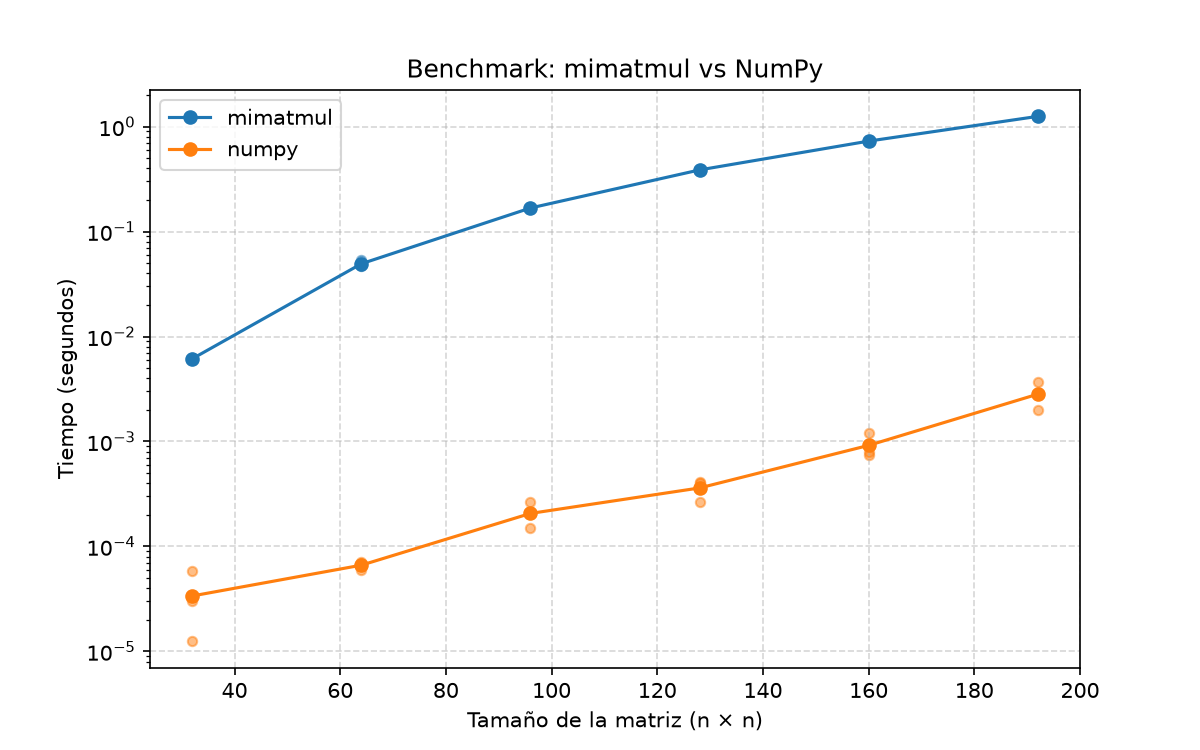
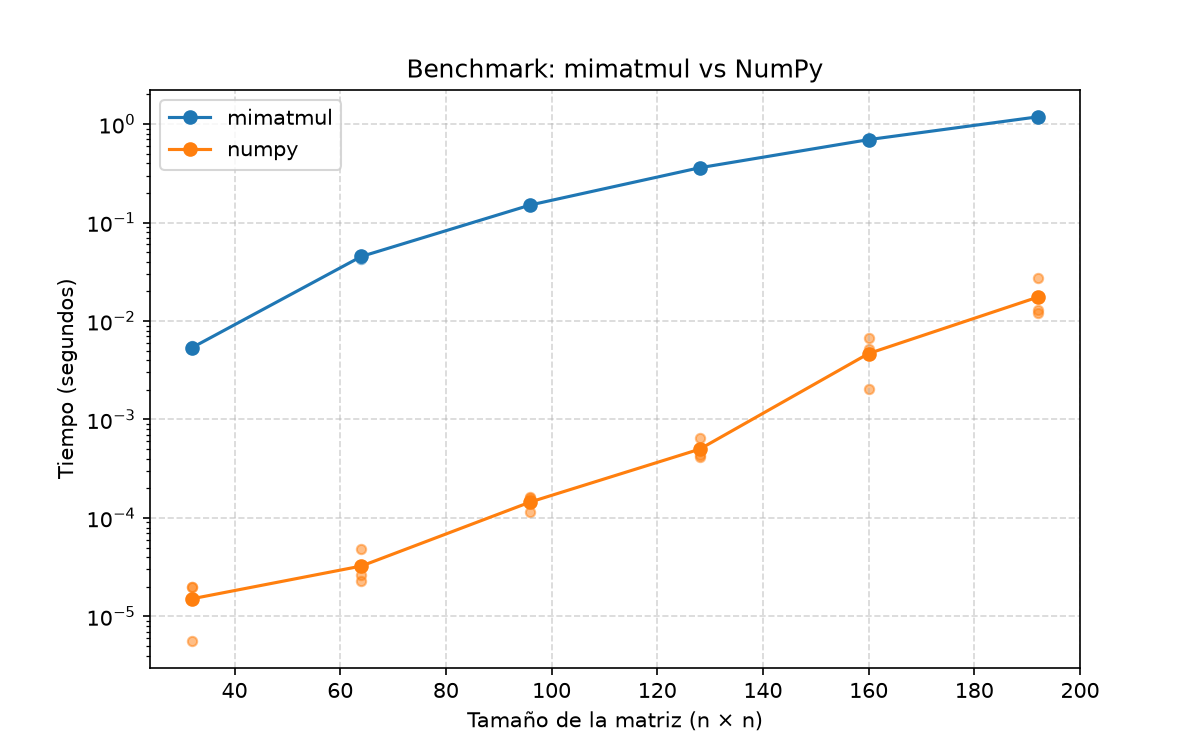
Completa README y revisión final

diff --git a/README.md b/README.md
@@ -1,80 +1,204 @@
 # P0-Mosqueira-Javiera
 
-Proyecto 0 — Introducción al benchmarking y al trabajo con agentes de IA.
-Ramo: Métodos Computacionales en Ingeniería en Obras Civiles.
+Proyecto 0 — **Introducción al benchmarking y al trabajo con agentes de IA**
 
-## Propósito general del proyecto
+Ramo: Métodos Computacionales en Ingeniería en Obras Civiles
+
+---
+
+## 1. Propósito del proyecto
 
 El objetivo de este proyecto es preparar un ambiente de trabajo para el resto
-del curso e introducir una forma de desarrollo basada en agentes de inteligencia
-artificial (OpenCode). El proyecto incluye:
+del curso e introducir una forma de desarrollo basada en agentes de
+inteligencia artificial (OpenCode).
 
-- investigar las características del computador (`src/system_info.py`);
-- implementar una multiplicación de matrices con ciclos explícitos de Python
+El proyecto incluye:
+- Investigar las características del computador (`src/system_info.py`);
+- Implementar una multiplicación de matrices con ciclos explícitos de Python
   (`src/mimatmul.py`);
-- verificar esa implementación con pruebas automáticas
+- Verificar esa implementación con pruebas automáticas
   (`tests/test_mimatmul.py`);
-- comparar su rendimiento contra la operación optimizada de NumPy mediante un
+- Comparar su rendimiento contra la operación optimizada de NumPy mediante un
   benchmark (`src/benchmark.py`).
 
-## Computador
+## 2. Estructura del repositorio
 
-Características del equipo evaluado (obtenidas con `src/system_info.py` y
-verificadas con herramientas del sistema operativo):
+```
+P0-Mosqueira-Javiera/
+├── README.md
+├── AGENTS.md
+├── requirements.txt
+├── src/
+│   ├── system_info.py
+│   ├── mimatmul.py
+│   └── benchmark.py
+├── tests/
+│   └── test_mimatmul.py
+├── data/
+│   ├── system_info.json
+│   └── benchmark_results.csv
+└── figures/
+    └── benchmark.png
+```
 
-- Sistema operativo: Windows 11 (arquitectura AMD64)
-- Versión de Python: 3.14.7
-- Procesador: Intel(R) Core(TM) Ultra 9 185H
-- Núcleos físicos: 16 · Procesadores lógicos: 22
-- Memoria RAM total: 31.42 GB
-- GPU: NVIDIA GeForce RTX 4070 Laptop GPU + Intel(R) Arc(TM) Graphics
+## 3. Computador
+
+Características del equipo evaluado, obtenidas con `src/system_info.py` y
+verificadas con herramientas del sistema operativo:
+
+| Característica | Valor |
+| --- | --- |
+| Sistema operativo | Windows 11 (arquitectura AMD64) |
+| Versión de Python | 3.14.7 |
+| Procesador | Intel(R) Core(TM) Ultra 9 185H |
+| Núcleos físicos | 16 |
+| Procesadores lógicos | 22 |
+| Memoria RAM total | 31.42 GB |
+| GPU | NVIDIA GeForce RTX 4070 Laptop GPU + Intel(R) Arc(TM) Graphics |
+| Disco C: | 924.09 GB |
 
 Los datos completos se encuentran en `data/system_info.json`.
 
-## Instalación
+## 4. Instalación
 
-Comandos para crear y activar el ambiente virtual (PowerShell):
+### Requisitos previos
+
+- **Python 3.14** (verificar con python --version)
+- **Git** (verificar con git --version)
+
+### 1. Obtener el proyecto desde GitHub
+
+```powershell
+git clone https://github.com/javimosqueira/P0-Mosqueira-Javiera.git
+cd P0-Mosqueira-Javiera
+```
+
+### 2. Ambiente Virtual
+
+Crear el ambiente virtual:
 
 ```
 python -m venv .venv
+```
+
+Activar el ambiente virtual (powershell):
+
+```
 .\.venv\Scripts\Activate.ps1
 ```
 
-Para instalar las dependencias:
+### 3. Instalar las dependencias
 
-```
+```powershell
 pip install -r requirements.txt
 ```
 
-## Ejecución
+El archivo `requirements.txt` fija las versiones exactas de las bibliotecas
+para que el ambiente sea reproducible.
 
-Ejecutar las pruebas automáticas:
+Con esto, el ambiente queda listo para ejecutar las pruebas, el script de
+información del computador y el benchmark.
 
-```
-pytest
-```
+## 5. Ejecución
 
-Obtener la información del computador:
+| Comando | Descripción |
+| --- | --- |
+| `python -m pytest` | Ejecuta las pruebas automáticas |
+| `python src\system_info.py` | Obtiene la información del computador |
+| `python src\benchmark.py` | Ejecuta el benchmark y genera el gráfico |
 
-```
-python src\system_info.py
-```
+## 6. Resultados del benchmark
 
-(El comando del benchmark se agregará cuando se implemente la Etapa 4.)
+El benchmark ejecuta `mimatmul` y NumPy para matrices de 32×32 hasta 192×192,
+con 3 repeticiones por tamaño y mide el tiempo con `time.perf_counter()`. Los
+datos de cada repetición están en `data/benchmark_results.csv` y el
+gráfico en `figures/benchmark.png`.
 
-## Resultados
+![Gráfico del benchmark](figures/benchmark.png)
 
-(En construcción: se agregarán el archivo `data/benchmark_results.csv` y la
-figura `figures/benchmark.png`.)
+## 7. Estado actual del proyecto
 
-## Uso de OpenCode
+| Etapa | Descripción | Estado |
+| --- | --- | --- |
+| 1 | Ambiente de desarrollo | Completada |
+| 2 | Información del computador | Completada |
+| 3 | `mimatmul` y pruebas automáticas | Completada (5 pruebas en verde) |
+| 4 | Benchmark y gráfico | Completada |
+| 5 | Documentación y revisión final | Completada |
 
-(En construcción: reflexión sobre el trabajo con el agente.)
+## 8. Observaciones de rendimiento
 
-## Estado actual del proyecto
+Las respuestas se basan en observaciones del Administrador de tareas de Windows
+durante dos corridas del mismo tipo de cálculo (multiplicación de matrices):
 
-- Etapa 1 (ambiente de desarrollo): completada.
-- Etapa 2 (información del computador): completada.
-- Etapa 3 (implementación de `mimatmul` y pruebas): completada (5 pruebas en verde).
-- Etapa 4 (benchmark): pendiente.
-- Etapa 5 (documentación y revisión final): pendiente.
+| Carga | CPU | Memoria RAM | GPU |
+| --- | --- | --- | --- |
+| `mimatmul` | 1 núcleo al 100% | 13.7 GB de 31.4 GB | 0% |
+| NumPy | todos los núcleos al 100% | 13.7 GB de 31.4 GB | 0% |
+
+### Respuestas a las preguntas de rendimiento
+
+> **¿mimatmul parece utilizar uno o varios núcleos?**
+
+Uno solo. En la corrida de observación se multiplicaron matrices de 96×96 con
+`mimatmul` durante 30 segundos (189 multiplicaciones, 0.16 s por
+multiplicación) y el proceso Python usó 1 núcleo al 100%.
+
+> **¿NumPy parece utilizar uno o varios núcleos?**
+
+Varios. En la corrida de observación se multiplicaron matrices de 3000×3000
+con NumPy durante 30 segundos (84 multiplicaciones, 0.36 s por multiplicación)
+y el proceso usó todos los núcleos al 100%. NumPy delega la multiplicación a
+bibliotecas optimizadas (BLAS) que usan todos los hilos disponibles.
+
+> **¿Por qué NumPy es más rápido?**
+
+NumPy es más rápido porque delega el cálculo a código compilado en C/Fortran
+(BLAS) en lugar de ciclos interpretados de Python, usa todos los núcleos y
+optimiza el uso de la memoria caché y del hardware. En la corrida de
+observación, en 30 segundos `mimatmul` hizo 189 multiplicaciones de 96×96 y
+NumPy 84 de 3000×3000, un trabajo del orden de 1000 veces mayor por operación.
+
+> **¿Por qué las repeticiones no entregan exactamente el mismo tiempo?**
+
+Porque el sistema tiene otras cargas variables (procesos en segundo plano,
+escritorio) y el sistema operativo reparte los núcleos. Las mediciones incluyen
+ruido del cronómetro y del sistema. Por eso el benchmark repite cada tamaño y
+reporta el tiempo promedio.
+
+> **¿Cuál es aproximadamente la matriz cuadrada de mayor tamaño que cabría en la RAM libre del computador?**
+
+Con 31.42 GB de RAM total y aproximadamente 13.7 GB usados durante la
+observación, quedaban 17.7 GB libres. Para multiplicar dos matrices (A·B = C)
+se necesitan tres matrices de números de 64 bits (8 bytes): A, B y el resultado
+C. Si cada una es de lado `n`, el total es `3·8·n²` bytes, por lo que
+`n ≈ √(17.7e9/24) ≈ 27 000`. Por lo tanto, con NumPy se podrían multiplicar,
+aproximadamente, matrices de **27000×27000**. Sin embargo, para `mimatmul` el
+límite del tamaño de la matriz es menor.
+
+## 9. Uso de OpenCode
+
+Reflexión sobre el trabajo con el agente de IA durante el proyecto:
+
+> **¿Qué parte realizó correctamente el agente?**
+
+El agente configuró el ambiente de desarrollo (venv, dependencias y Git),
+generó el script de información del computador, implementó `mimatmul` con la
+validación de dimensiones, escribió las pruebas automáticas y el benchmark
+con su gráfico. 
+
+> **¿Qué parte tuvo que corregir o modificar?**
+
+Modifiqué el README y también fui revisando cada uno de los pasos realizados y archivos creados, para verificar que se cumpliera con lo solicitado.
+
+> **¿Qué archivo comprende mejor después del proyecto?**
+
+`src/mimatmul.py` y `tests/test_mimatmul.py`: en `mimatmul.py` revisé cómo los
+tres ciclos calculan cada elemento de la matriz de resultado y por qué su
+implementación con ciclos de Python es lenta comparada con NumPy; en
+`tests/test_mimatmul.py` entendí cómo las pruebas verifican la multiplicación
+con matrices de dimensiones conocidas y la validación de errores.
+
+> **¿Qué parte del código todavía le resulta menos clara?**
+
+El manejo de `sys.path` y la generación del gráfico en `src/benchmark.py`. 

diff --git a/AGENTS.md b/AGENTS.md
@@ -31,7 +31,7 @@ P0-Mosqueira-Javiera/
 
 ## Comandos importantes
 
-- Ejecutar las pruebas: `pytest`
+- Ejecutar las pruebas: `python -m pytest`
 - Ejecutar el benchmark: `python src/benchmark.py`
 - Ejecutar la información del computador: `python src/system_info.py`
 
